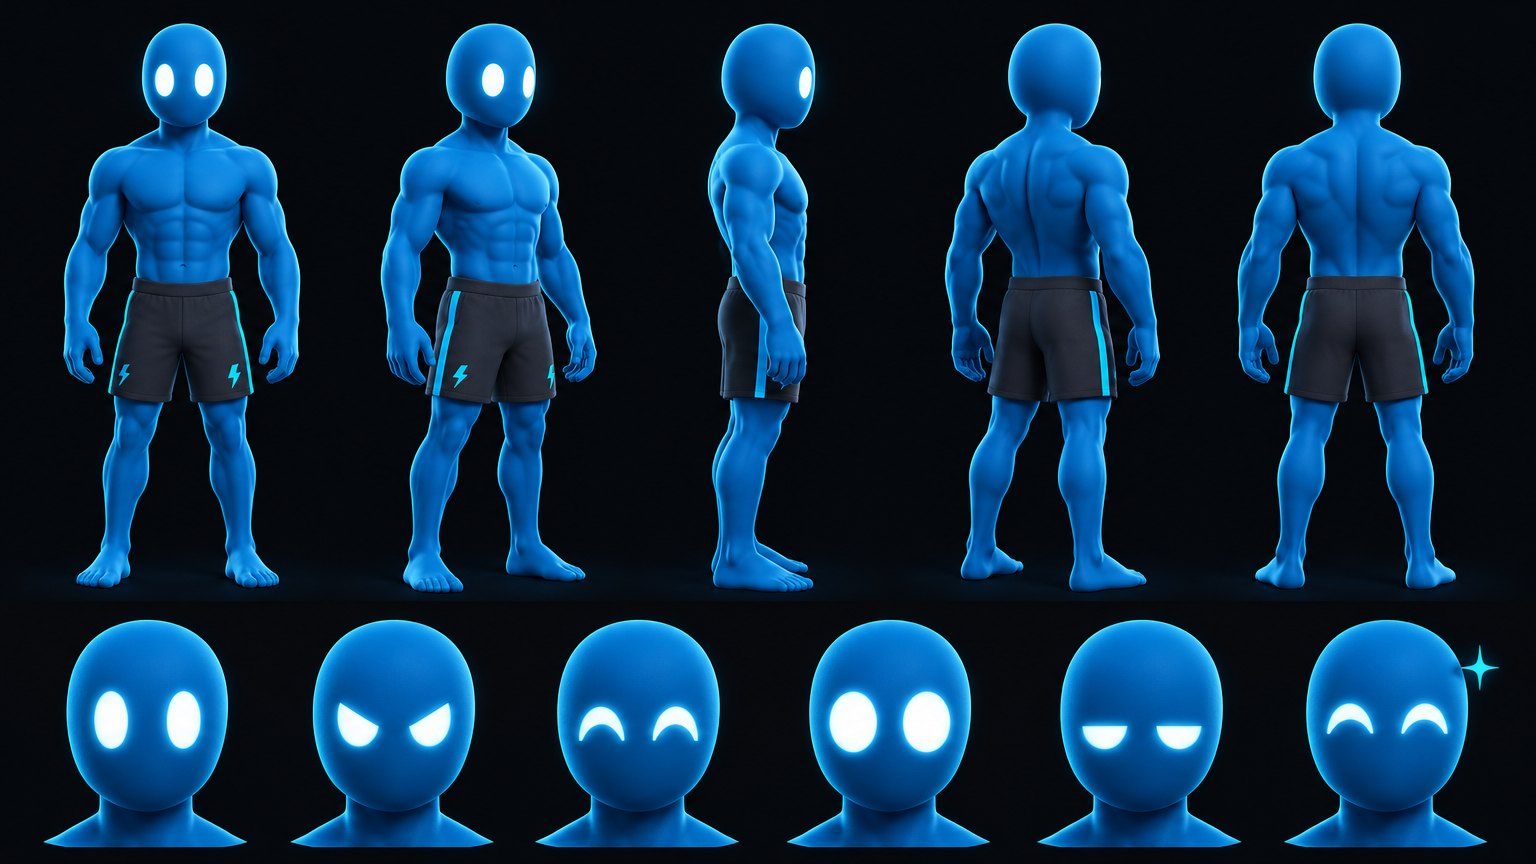
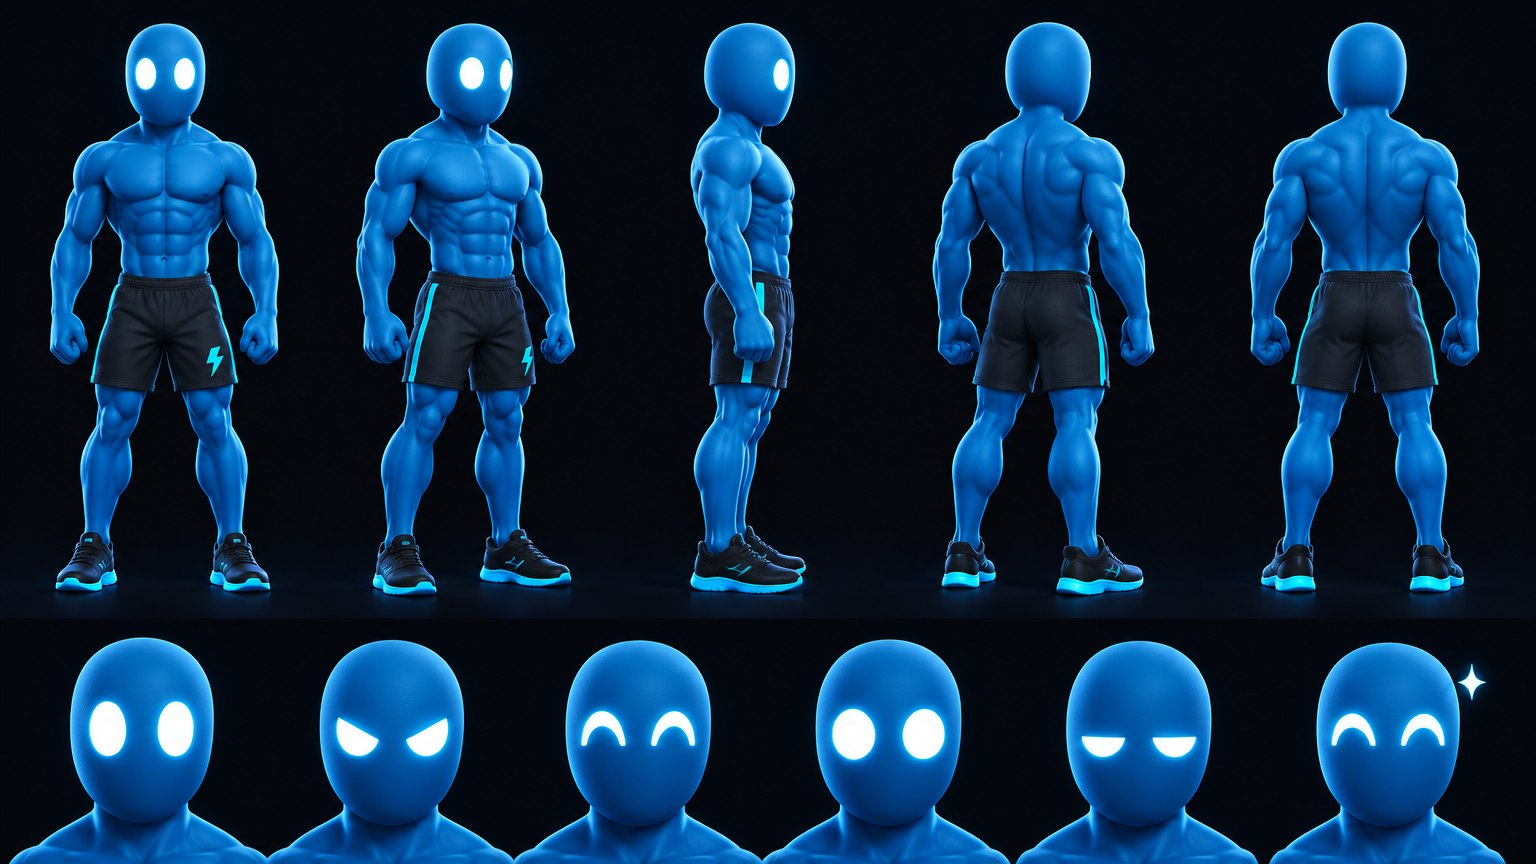
docs(marketing): v2.1 character sheets - more defined bodies, revised outfits
- Elo/Ela: higher muscle definition, canonical training shoes; Ela in a
  short cropped scoop-neck sports bra
- Kabir: shirtless, ~8% body fat aesthetic physique
- Meera: short cropped low-V sports bra, sculpted hourglass
- Raja: hyper-defined champion-bodybuilder physique
- Avatar bible prompt blocks and specs updated to match

Claude-Session: https://claude.ai/code/session_01GhFdfoMWjppCMLv6578fQn

diff --git a/docs/marketing/avatar-content-system/02-avatar-bible.md b/docs/marketing/avatar-content-system/02-avatar-bible.md
@@ -56,7 +56,7 @@ https://www.figma.com/design/iJPbaH31wlsZ53dEXhUuCQ
 | **Emblem** | A small cyan **lightning bolt** (from the Elovia logo) on the thigh, hip or chest. Nothing else is branded. |
 | **Outfit base** | Charcoal **`#2A2A3A`** to near-black athletic wear |
 | **World** | Charcoal background **`#0A0A0F`**, cyan rim light, a glowing cyan floor line. Deliberately the opposite of Swolo's mint. |
-| **Never** | Real brand logos, Swolo's teal/mint palette or faceless-hulk silhouette, nudity or suggestive posing, medical credentials, "I lost X kg" claims |
+| **Never** | Real brand logos, Swolo's teal/mint palette or faceless-hulk silhouette, nudity or explicit posing, medical credentials, "I lost X kg" claims |
 
 ---
 
@@ -80,9 +80,9 @@ https://www.figma.com/design/iJPbaH31wlsZ53dEXhUuCQ
 | Head | Smooth, rounded bean shape. No nose, no mouth, no ears, no hair | Same, plus a **sculpted high ponytail** in the same material |
 | Eyes | Two large **glowing white ovals**. All emotion comes from eye shape | Same |
 | Body material | Matte soft-touch vinyl, **deep electric blue `#1590C8`**, faint cyan inner glow along muscle edges | Same |
-| Physique (Level 3) | **Lean athletic aesthetic**: broad shoulders, V-taper, defined abs. A natural athlete, **not** a mass monster | **Toned athletic hourglass**: toned shoulders and arms, flat toned core, narrow waist, strong glutes and legs. **Lean and feminine, not bulky** |
-| Outfit | Charcoal shorts, thin cyan side stripe, small cyan bolt on the left thigh | Charcoal high-neck sports bra plus high-waisted leggings, thin cyan side stripe, cyan bolt on the left hip |
-| Shoes | **Black training shoes with cyan soles** (canonical from v2; the first turnaround sheets show bare feet, so regenerate the golden set with shoes) | Same |
+| Physique (Level 3) | **Highly defined, lean aesthetic**: chiseled six-pack and obliques, full chest, capped shoulders, wide lats and V-taper, sculpted quads and calves. Shredded like a fitness model, **not** a mass monster | **Highly toned athletic hourglass**: visible abs and obliques, sculpted shoulders and arms, very narrow waist, strong rounded glutes, defined quads. **Curvy and feminine, not bulky** |
+| Outfit | Charcoal shorts, thin cyan side stripe, small cyan bolt on the left thigh | **Short cropped** charcoal sports bra with a scoop neckline and bare midriff, plus high-waisted leggings, thin cyan side stripe, cyan bolt on the left hip |
+| Shoes | **Black training shoes with cyan soles** (canonical; the v2.1 sheets include them) | Same |
 | Hands | Simple rounded hands, 4 fingers, no detail | Same |
 | Scale | Human-size in the gym world. Can shrink to 15 cm for food-scan scenes, a running gag | Same |
 
@@ -153,16 +153,16 @@ ELA — an original stylized 3D female fitness mascot: a faceless humanoid with 
 rounded head (no nose, no mouth, no ears), two large glowing white oval eyes and a
 sculpted high ponytail of the same material; body of smooth matte soft-touch vinyl in
 deep electric blue (#1590C8) with a faint cyan inner glow; [LEVEL] physique; simple
-rounded hands; wears a charcoal high-neck sports bra and charcoal high-waisted leggings
-with a thin bright cyan (#00D4FF) side stripe and a small cyan lightning-bolt emblem on
+rounded hands; wears a short cropped charcoal sports bra with a scoop neckline and bare
+midriff, and charcoal high-waisted leggings with a thin bright cyan (#00D4FF) side stripe and a small cyan lightning-bolt emblem on
 the left hip, and black training shoes with cyan soles.
 ```
 
 **[LEVEL] fill-ins:**
 - `L1` → `an ordinary everyday body with a soft belly, rounded shoulders and slightly slouched posture`
 - `L2` → `a noticeably fitter body with upright posture, a firmer core and some shoulder and arm definition`
-- `L3 Elo` → `a lean athletic aesthetic physique with broad shoulders, V-taper and defined abs, a natural athlete, not a bodybuilder`
-- `L3 Ela` → `a toned athletic hourglass physique with toned shoulders and arms, a flat toned core, narrow waist and strong legs, lean and feminine, not bulky`
+- `L3 Elo` → `a highly defined aesthetic athletic physique: sharply chiseled six-pack abs and obliques, full defined chest, round capped shoulders, defined arms, wide lats and a strong V-taper, sculpted quads and calves, clear muscle separation; lean and shredded like a fitness model, not a giant bodybuilder`
+- `L3 Ela` → `a highly toned and defined athletic hourglass physique: visible defined abs and obliques, sculpted shoulders and toned defined arms, very narrow waist, strong rounded glutes, defined quads and calves; lean, curvy and feminine like a fitness model, not bulky`
 
 **World block:**
 ```
@@ -197,7 +197,7 @@ no text, no extra fingers, no realistic human skin, no bodybuilder mass on Ela`.
 |---|---|
 | Sheet | [`characters/raja-lion-sheet.jpg`](characters/raja-lion-sheet.jpg) |
 | Concept | The lion everyone secretly thinks they are. *Raja* means "king" in Hindi and reads fine globally. |
-| Look | A humanoid lion in high-end animated-feature 3D. **Full golden-amber mane with bronze tips**, amber eyes, short golden fur over **heroic muscle definition** (broad shoulders, big chest and arms, V-taper, abs). Lion-paw hands and feet, tail with a dark tuft. **Charcoal shorts with a cyan stripe and bolt, cyan wrist wraps.** |
+| Look | A humanoid lion in high-end animated-feature 3D. **Full golden-amber mane with bronze tips**, amber eyes, short golden fur over an **extremely muscular, hyper-defined champion-bodybuilder physique** (massive shoulders and traps, striated chest, huge arms with veins, eight-pack, wide lats, teardrop quads, diamond calves). Lion-paw hands and feet, tail with a dark tuft. **Charcoal shorts with a cyan stripe and bolt, cyan wrist wraps.** |
 | Personality | Calm, regal confidence. He doesn't shout; he roars once, at the end. He believes in you more than you do. |
 | Voice | Deep, warm, unhurried. **Can speak** (he has a mouth), but use it sparingly; mostly narrator plus a roar. |
 | Use | "Raja Mode" episodes: challenge launches, milestone celebrations (Day 30 completions), "the version of you at Level 3". About 1 in 10 videos (3 of the first 30). |
@@ -208,10 +208,12 @@ no text, no extra fingers, no realistic human skin, no bodybuilder mass on Ela`.
 ```
 RAJA — an original anthropomorphic lion fitness mascot in high-end 3D animated feature film
 style: a majestic humanoid lion standing upright, full flowing golden-amber mane with
-darker bronze tips, intense friendly amber eyes, strong noble muzzle, short golden fur over
-clearly visible heroic muscle definition (very broad shoulders, big chest and arms, V-taper,
-defined abs, powerful legs — aesthetic superhero proportions, not grotesque), lion-paw hands
-and feet, long tail with a dark tuft; wears charcoal athletic shorts with a thin cyan
+darker bronze tips, intense friendly amber eyes, strong noble muzzle, short golden fur;
+EXTREMELY MUSCULAR, hyper-defined champion bodybuilder physique clearly visible under the
+fur — massive rounded shoulders and huge traps, deep striated chest, enormous biceps and
+triceps with visible veins, chiseled eight-pack abs and sharp obliques, very wide lats and a
+dramatic V-taper, sweeping teardrop quads, diamond-shaped calves, visible muscle striations;
+heroic, powerful and aesthetic, not grotesque; lion-paw hands and feet, long tail with a dark tuft; wears charcoal athletic shorts with a thin cyan
 (#00D4FF) side stripe and small cyan lightning-bolt emblem, and cyan wrist wraps.
 ```
 
@@ -222,8 +224,8 @@ and feet, long tail with a dark tuft; wears charcoal athletic shorts with a thin
 | | |
 |---|---|
 | Sheet | [`characters/kabir-realistic-male-sheet.jpg`](characters/kabir-realistic-male-sheet.jpg) |
-| Who | An original, **fictional**, AI-generated Indian man, about 28, about 183 cm. Handsome and warm: strong jaw, brown eyes, textured black hair with a fade, short trimmed beard. **Lean aesthetic physique, about 11% body fat**: fit and attainable, not extreme. |
-| Wardrobe | Fitted charcoal training tee with the cyan bolt, black joggers, white trainers. For physique shots: a charcoal tank. |
+| Who | An original, **fictional**, AI-generated Indian man, about 28, about 183 cm. Handsome and warm: strong jaw, brown eyes, textured black hair with a fade, short trimmed beard. **Shirtless, very well-defined aesthetic physique, about 8% body fat**: chiseled six-pack, V-lines, full chest, capped shoulders, veiny forearms, wide back. A fitness model, not an extreme bodybuilder. |
+| Wardrobe | **Shirtless** with black tapered joggers (cyan side stripe and bolt) and white trainers. For explainer or talking shots, the fitted charcoal tee from the v1 sheet. |
 | Persona | "The friend who got fit and explains it simply." Never a doctor, dietitian or certified coach. |
 | Use | Paid-ad A/B tests against Elo and Ela, **labelled as AI**. Not for the organic feed. |
 | Risks | Faces drift (use one reference image, and face-lock or image-to-video only). "Is it AI?" backlash. AI-generated human exercise form is often wrong. **Never** a testimonial or a before/after. |
@@ -233,9 +235,11 @@ and feet, long tail with a dark tuft; wears charcoal athletic shorts with a thin
 KABIR — an original fictional AI-generated fitness host (not a real person): Indian man,
 about 28, about 183 cm, very handsome with a warm friendly face, strong jawline, warm brown
 eyes, short textured black hair with a clean fade, neatly trimmed short beard, warm
-medium-brown skin with natural texture; lean athletic aesthetic physique around 11% body
-fat, broad shoulders, V-taper, defined chest and arms; wearing a fitted charcoal training
-t-shirt with a small electric-cyan lightning-bolt emblem, black tapered joggers, white
+medium-brown skin with natural texture; SHIRTLESS, showing a very well-defined aesthetic
+physique at about 8% body fat: chiseled six-pack abs, defined obliques and V-lines, broad
+full chest, round capped shoulders, defined arms with visible forearm veins, wide back with
+a strong V-taper; fitness-model build, not an extreme bodybuilder; wearing black tapered
+joggers with a thin electric-cyan side stripe and a small cyan lightning-bolt emblem, white
 training shoes.
 ```
 
@@ -246,8 +250,9 @@ training shoes.
 | | |
 |---|---|
 | Sheet | [`characters/meera-realistic-female-sheet.jpg`](characters/meera-realistic-female-sheet.jpg) |
-| Who | An original, **fictional**, AI-generated Indian woman, about 26, about 168 cm. Warm and bright: brown eyes, long dark wavy hair in a high ponytail. **Fit athletic hourglass**: toned shoulders and arms, toned core, narrow waist, strong glutes and legs. **Toned, not bulky.** |
-| Wardrobe | Charcoal high-neck sports bra plus high-waisted leggings with cyan piping and the bolt; white trainers. **Confident, athletic, non-suggestive posing.** |
+| Who | An original, **fictional**, AI-generated Indian woman, about 26, about 168 cm. Glamorous and warm: brown eyes, long dark wavy hair in a high ponytail. **Sculpted athletic hourglass**: toned defined shoulders and arms, visible abs and obliques, very narrow waist, strong rounded glutes, toned legs. **Toned, not bulky.** |
+| Wardrobe | **Short cropped** charcoal sports bra with a **low V-neckline** and thin straps, bare midriff, cyan piping and the bolt; high-waisted leggings; white trainers. Confident sportswear-campaign posing. |
+| Reach note | The image model refused "plunge neckline + cleavage" wording; the low-V cropped bra is as far as it went. Instagram and Facebook don't recommend "sexually suggestive" content to non-followers, so keep the most revealing cuts for paid placements, where you control delivery. |
 | Persona | "The confident gym big-sister." Not a medical expert. |
 | Use | Paid-ad A/B tests, **labelled as AI**. Not for the organic feed. |
 | Risks | Everything listed for Kabir, plus body-image scrutiny. Never imply this body is a 30-day result. Platforms limit reach on sexualised fitness content, so keep framing athletic. |
@@ -256,12 +261,13 @@ training shoes.
 ```
 MEERA — an original fictional AI-generated fitness host (not a real person): Indian woman,
 about 26, about 168 cm, beautiful with a warm friendly face, bright brown eyes, long
-dark-brown wavy hair in a high ponytail, warm light-brown skin with natural texture; fit
-athletic hourglass physique — toned shoulders and arms, toned core with a narrow waist,
-strong rounded glutes and toned legs, feminine and toned, not bulky; wearing a charcoal
-high-neck sports bra and matching high-waisted leggings with thin electric-cyan piping and
-a small cyan lightning-bolt emblem, white training shoes; confident, natural,
-non-provocative athletic posing.
+dark-brown wavy hair in a high ponytail, glowing warm light-brown skin; very fit sculpted
+athletic hourglass physique — toned defined shoulders and arms, visible abs and obliques,
+narrow waist, strong rounded glutes, toned athletic legs; feminine and toned, not bulky;
+wearing a short cropped charcoal sports bra with a low V-neckline and thin straps, bare toned
+midriff, thin electric-cyan piping and a small cyan lightning-bolt emblem, matching charcoal
+high-waisted leggings with cyan side piping, white training shoes; confident sportswear-
+campaign posing.
 ```
 
 ---

diff --git a/docs/marketing/avatar-content-system/README.md b/docs/marketing/avatar-content-system/README.md
@@ -45,7 +45,8 @@ Codex. Researched 9 Nov 2026.
 ## Start this week (Week 0: 10–15 Nov)
 
 - [ ] Claim the handles and set up both profiles, **including Instagram's "AI-generated profile" label** (`06` §1)
-- [ ] Regenerate the **golden sheets with shoes** (canonical v2) and lock them (`02` §2.2)
+- [x] Golden sheets regenerated with shoes and more muscle definition (v2.1, 9 Nov)
+- [ ] Optional: regenerate the Level 1/2/3 lineup to match the more-defined Level 3 bodies (`02` §2.3)
 - [ ] Lock the narrator voice in ElevenLabs (EN, then Hinglish)
 - [ ] Install the Remotion plugin, plus fal *or* Creative Claw, plus ElevenLabs (`08` §2)
 - [ ] Produce D01–D07 with the template before posting D01 (`04`)
